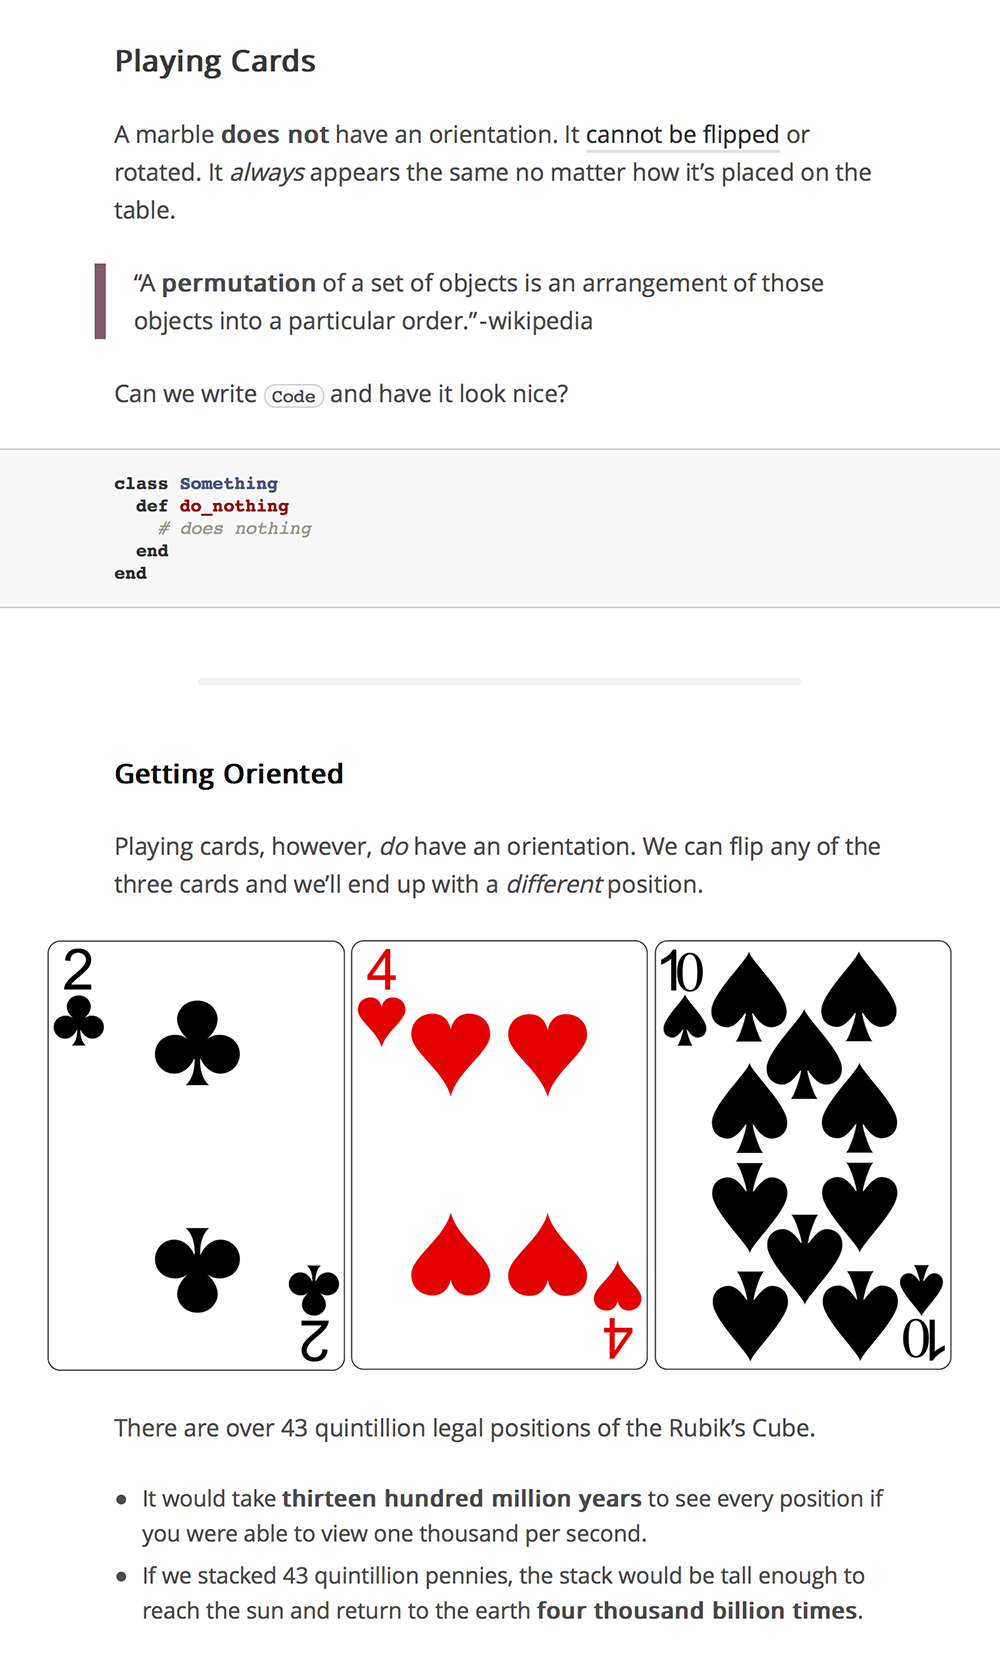
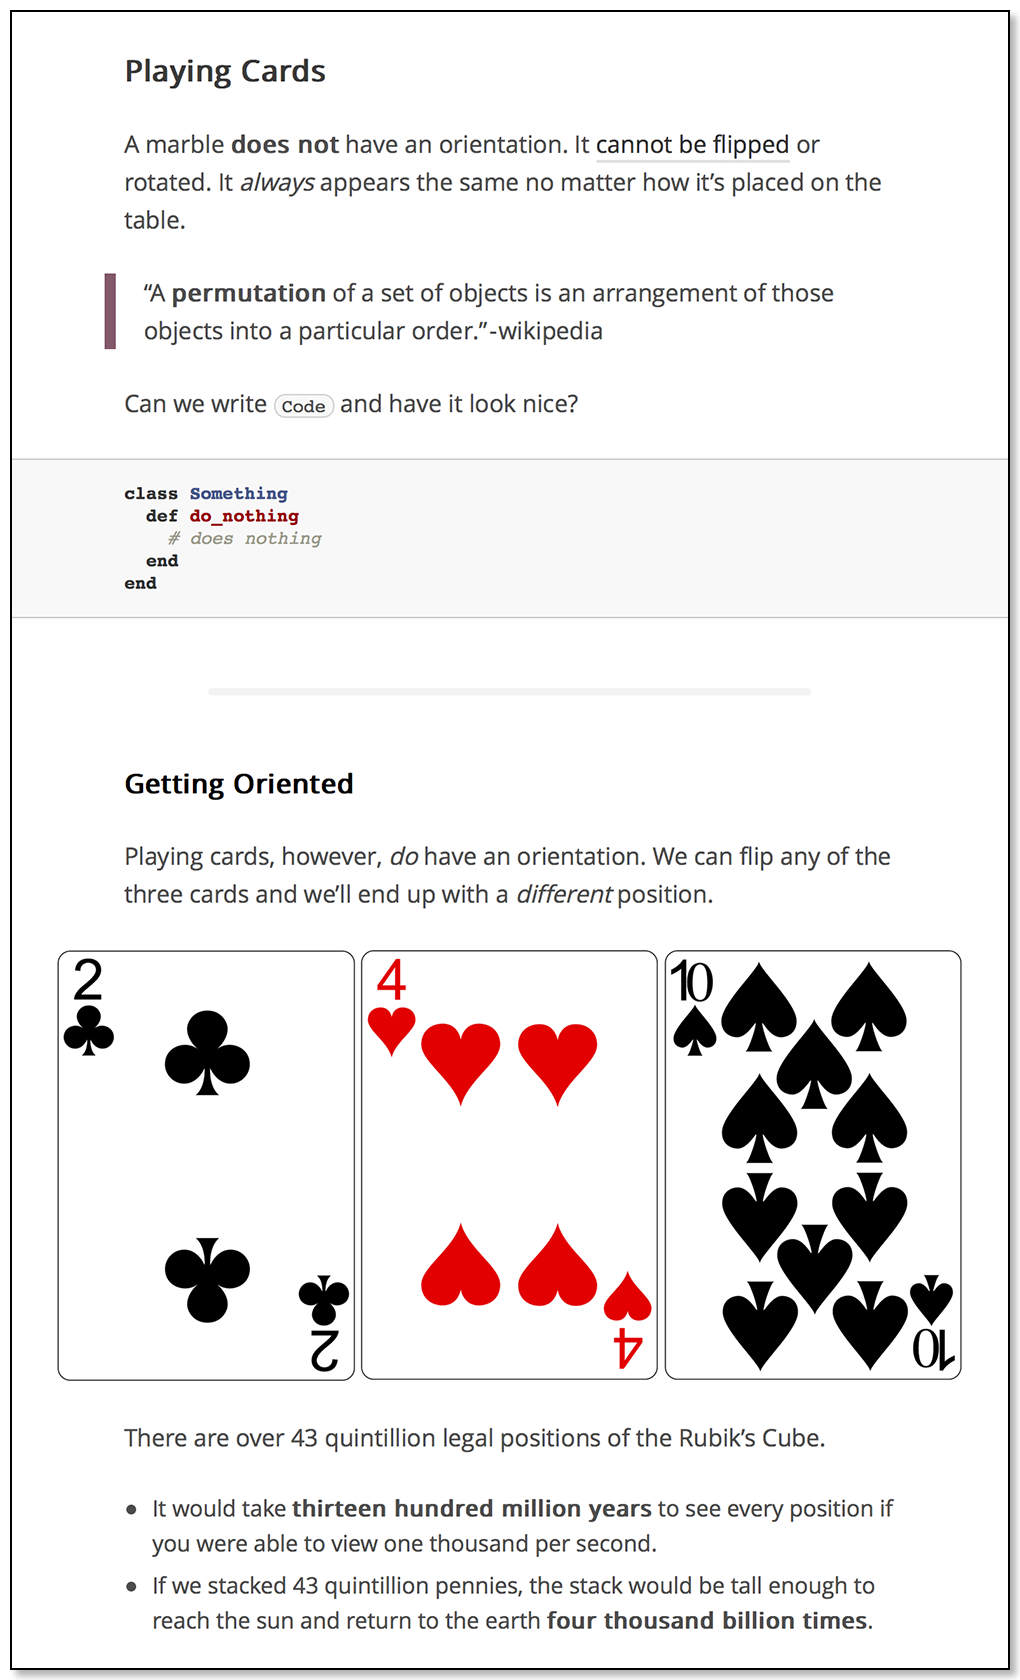
Update preview image and README for svbtle

diff --git a/svbtle/README.md b/svbtle/README.md
@@ -1,0 +1,5 @@
+# Svbtle
+
+Marked theme based on [Svbtle][svbtle].
+
+[![svbtle](svbtle.png)](svbtle)
